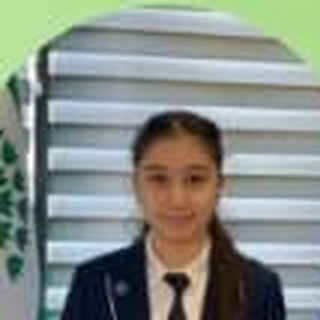
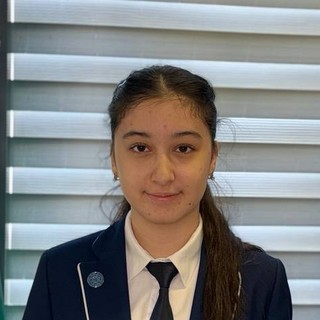
Replace team portraits with high-quality photos
Claude-Session: https://claude.ai/code/session_01CBH8yaKx6sUqd6VYkLhC2s

diff --git a/index.html b/index.html
@@ -5,7 +5,7 @@
   <meta name="viewport" content="width=device-width, initial-scale=1">
   <title>Greenaissance | Eco Committee</title>
   <meta name="description" content="School Eco Committee: recycling, school garden, saving energy and clean-up days.">
-  <link rel="stylesheet" href="style.css?v=4">
+  <link rel="stylesheet" href="style.css?v=5">
 </head>
 <body data-title="nav_home">
   <header class="site-header" id="site-header"></header>
@@ -46,7 +46,7 @@
   </main>
 
   <footer class="site-footer" id="site-footer"></footer>
-  <script src="translations.js?v=4"></script>
-  <script src="main.js?v=4"></script>
+  <script src="translations.js?v=5"></script>
+  <script src="main.js?v=5"></script>
 </body>
 </html>

diff --git a/achievements.html b/achievements.html
@@ -4,7 +4,7 @@
   <meta charset="UTF-8">
   <meta name="viewport" content="width=device-width, initial-scale=1">
   <title>Achievements / Awards | Greenaissance</title>
-  <link rel="stylesheet" href="style.css?v=4">
+  <link rel="stylesheet" href="style.css?v=5">
 </head>
 <body data-title="nav_awards">
   <header class="site-header" id="site-header"></header>
@@ -28,7 +28,7 @@
   </main>
 
   <footer class="site-footer" id="site-footer"></footer>
-  <script src="translations.js?v=4"></script>
-  <script src="main.js?v=4"></script>
+  <script src="translations.js?v=5"></script>
+  <script src="main.js?v=5"></script>
 </body>
 </html>

diff --git a/projects.html b/projects.html
@@ -4,7 +4,7 @@
   <meta charset="UTF-8">
   <meta name="viewport" content="width=device-width, initial-scale=1">
   <title>Eco Projects | Greenaissance</title>
-  <link rel="stylesheet" href="style.css?v=4">
+  <link rel="stylesheet" href="style.css?v=5">
 </head>
 <body data-title="nav_projects">
   <header class="site-header" id="site-header"></header>
@@ -30,7 +30,7 @@
   </main>
 
   <footer class="site-footer" id="site-footer"></footer>
-  <script src="translations.js?v=4"></script>
-  <script src="main.js?v=4"></script>
+  <script src="translations.js?v=5"></script>
+  <script src="main.js?v=5"></script>
 </body>
 </html>

diff --git a/news.html b/news.html
@@ -4,7 +4,7 @@
   <meta charset="UTF-8">
   <meta name="viewport" content="width=device-width, initial-scale=1">
   <title>News & Events | Greenaissance</title>
-  <link rel="stylesheet" href="style.css?v=4">
+  <link rel="stylesheet" href="style.css?v=5">
 </head>
 <body data-title="nav_news">
   <header class="site-header" id="site-header"></header>
@@ -36,7 +36,7 @@
   </main>
 
   <footer class="site-footer" id="site-footer"></footer>
-  <script src="translations.js?v=4"></script>
-  <script src="main.js?v=4"></script>
+  <script src="translations.js?v=5"></script>
+  <script src="main.js?v=5"></script>
 </body>
 </html>

diff --git a/contact.html b/contact.html
@@ -4,7 +4,7 @@
   <meta charset="UTF-8">
   <meta name="viewport" content="width=device-width, initial-scale=1">
   <title>Contact | Greenaissance</title>
-  <link rel="stylesheet" href="style.css?v=4">
+  <link rel="stylesheet" href="style.css?v=5">
 </head>
 <body data-title="nav_contact">
   <header class="site-header" id="site-header"></header>
@@ -44,7 +44,7 @@
   </main>
 
   <footer class="site-footer" id="site-footer"></footer>
-  <script src="translations.js?v=4"></script>
-  <script src="main.js?v=4"></script>
+  <script src="translations.js?v=5"></script>
+  <script src="main.js?v=5"></script>
 </body>
 </html>

diff --git a/team.html b/team.html
@@ -4,7 +4,7 @@
   <meta charset="UTF-8">
   <meta name="viewport" content="width=device-width, initial-scale=1">
   <title>Our Team | Greenaissance</title>
-  <link rel="stylesheet" href="style.css?v=4">
+  <link rel="stylesheet" href="style.css?v=5">
 </head>
 <body data-title="nav_team">
   <header class="site-header" id="site-header"></header>
@@ -38,7 +38,7 @@
   </main>
 
   <footer class="site-footer" id="site-footer"></footer>
-  <script src="translations.js?v=4"></script>
-  <script src="main.js?v=4"></script>
+  <script src="translations.js?v=5"></script>
+  <script src="main.js?v=5"></script>
 </body>
 </html>
